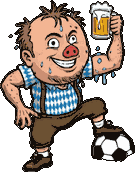
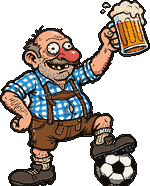
Round AK: Marcinelle art style locked in (ArtStyle.csv, refs), menu hero redrawn by PixelLab comic-first
Claude-Session: https://claude.ai/code/session_01G7FXyMq5aoL5Yeo9GA2AtK

diff --git a/sturmball_workbench.html b/sturmball_workbench.html
@@ -413,9 +413,12 @@ const S = {
 "MainMenu.csv":{key:null, what:"WHAT THE TITLE SCREEN LOOKS LIKE (round AI): the wallpaper, the title, and pictures standing on it (the hero).",
   cols:{"Part":["background","title","picture"],"Image":"text","Text":"text","X":"number","Y":"number","Width":"number","Height":"number","Frames":"number","FPS":"number","Notes":"long"},
   help:"<b>background</b>: the wallpaper (the first row wins). <b>title</b>: the big word - Text, and Height is the font size. <b>picture</b>: anything standing on the screen, as many rows as you like. X and Y are the CENTRE on a 1920 x 1080 screen. A picture can be a STRIP of <b>Frames</b> pictures side by side, played at <b>FPS</b> - the hero is 8 frames. Keep Width/Height a whole multiple of the picture's pixels (x2, x3) so the pixel art stays sharp.<br>The two PixelLab wallpapers: <code>menu_chaos_a.png</code> (the riot) and <code>menu_chaos_b.png</code> (the beer tents at sunset); the beer hall is <code>background.png</code>."},
+"ArtStyle.csv":{key:"Key", what:"THE ART STYLE (round AK): the words every art prompt starts with, so every picture comes out Marcinelle school. Read with guides/ART_STYLE.md; your references are in art_source/style_refs/.",
+  cols:{"Key":["style","ugliness","line","colour","avoid","pipeline","style_sheet"],"Text":"long","Notes":"long"},
+  help:"<b>style</b> - which comics. <b>ugliness</b> - ugly by EXAGGERATION (noses, eyes, teeth, gangly or pot-bellied), never by animal parts. <b>line</b> - wobbly black brush ink. <b>colour</b> - flat, 2-3 tones. <b>avoid</b> - what went wrong before. <b>pipeline</b> - comic master in PixelLab first, then tools/pixelate.py. <b>style_sheet</b> - the small sheet of your references sent to PixelLab as the style image.<br>Change a row and every picture made from then on follows it."},
 "Pixelate.csv":{key:"ID", what:"COMIC FIRST, PIXELS SECOND (round AJ): turns a Marcinelle-school comic master into the pixel art the game uses. Run python3 tools/pixelate.py.",
-  cols:{"ID":"text","Source":"text","Output":"text","Height":"number","Colours":"number","Outline":["yes","no"],"Ink":"number","Crop":["yes","no"],"Notes":"long"},
-  help:"<b>Source</b>: the comic drawing (from Ludo.ai, or your own) in art_source/. <b>Output</b>: where the pixel art goes. <b>Height</b>: pixels tall (the width follows) - the screen draws it 2x, 3x... so keep the size you show it at a whole multiple. <b>Colours</b>: fewer = more pixel-art. <b>Outline</b>: a 1-pixel black ink line round the outside. <b>Ink</b>: colours darker than this become pure black ink (0 = off). <b>Crop</b>: trim the empty space first.<br>Change a number, run <code>python3 tools/pixelate.py</code> (or <code>python3 tools/pixelate.py menu_hero</code> for one row), look in Godot."},
+  cols:{"ID":"text","Source":"text","Output":"text","Height":"number","Colours":"number","Outline":["yes","no"],"Ink":"number","Crop":["yes","no"],"Fill Holes":"text","Notes":"long"},
+  help:"<b>Source</b>: the comic drawing (from Ludo.ai, or your own) in art_source/. <b>Output</b>: where the pixel art goes. <b>Height</b>: pixels tall (the width follows) - the screen draws it 2x, 3x... so keep the size you show it at a whole multiple. <b>Colours</b>: fewer = more pixel-art. <b>Outline</b>: a 1-pixel black ink line round the outside. <b>Ink</b>: colours darker than this become pure black ink (0 = off). <b>Crop</b>: trim the empty space first. <b>Fill Holes</b> (round AK): a colour like <code>#f4f1ea</code> for see-through holes INSIDE the figure - PixelLab sometimes makes enclosed white see-through (a football's panels). About HALF the master's height keeps the ink lines.<br>Change a number, run <code>python3 tools/pixelate.py</code> (or <code>python3 tools/pixelate.py menu_hero</code> for one row), look in Godot."},
 "SoundRecipes.csv":{key:"Name", what:"SOUND EFFECTS FROM A SPREADSHEET (round AI, pyfxr). Each row becomes assets/audio/<Name>.wav when you run python3 tools/make_sfx.py.",
   cols:{"Name":"text","Wave":["square","saw","sine","noise"],"Base Freq":"number","Freq Ramp":"number","Duty":"number","Attack":"number","Sustain":"number","Punch":"number","Decay":"number","Arp Mod":"number","Arp Speed":"number","LPF Freq":"number","LPF Ramp":"number","HPF Freq":"number","Phaser Offset":"number","Phaser Ramp":"number","Repeat Speed":"number","Notes":"long"},
   help:"The classic <b>sfxr</b> dials, 0 to 1 (ramps -1 to 1). <b>Wave</b>: square for blips, noise for explosions and hits. <b>Base Freq</b>: how high (0.05 deep, 0.8 shrill). <b>Freq Ramp</b>: slide down (-) or up (+). <b>Sustain / Punch / Decay</b>: how long it stays loud, the kick at the start, the fade - lengths come out SQUARED, so 0.3 is about 0.1 s. <b>Arp Mod / Arp Speed</b>: the jump to a second note (the coin). <b>LPF Freq</b>: lower = muffled, bassy. <b>HPF Freq</b>: higher = thin, clicky.<br>Change a number, run <code>python3 tools/make_sfx.py</code> (it needs <code>pip install pyfxr</code> once), listen in Godot. Name the sound in Audio.csv's Sound column, or in MenuConfig.csv."},
@@ -2206,6 +2209,15 @@ function paintBook(){
       ["Stars first","the Stars open the set cards a team is made of (<code>class_tree_gates_units</code> is on), so a new game lands on the Star Hall"],
       ["free Stars","the first three cost nothing - <code>team_build_free_stars</code>. Talent points come from matches, and matches now need Stars"],
       ["switch","<code>team_build_gate</code> in Tuning.csv. Adventure is not gated"],
+    ])}`);
+
+  card("The art style, nailed down (round AK)", `
+    <p style="margin:0 0 10px"><b>PixelLab for art, Ludo for music. Marcinelle-school comic first, pixels second.</b></p>
+    ${rows([
+      ["the style","<b>ArtStyle.csv</b> + guides/ART_STYLE.md: ugly by exaggeration - potato noses, bulging eyes, buck teeth, gangly or pot-bellied; wobbly brush ink; flat colour"],
+      ["references","art_source/style_refs/ - Motomania, Clever &amp; Smart, the comic kicker; <code>style_sheet.png</code> is sent to PixelLab as the style image"],
+      ["menu hero","A (stocky drinker) on the title screen, B (lanky) ready - both from your sketch; comic masters in art_source/pixellab/menu_hero_comic/"],
+      ["pixelate","<b>Pixelate.csv</b> new column Fill Holes - PixelLab can make a football's white panels see-through"],
     ])}`);
 
   card("The menu hero, comic first (round AJ)", `

diff --git a/tools/workbench_src/part3_schema.js b/tools/workbench_src/part3_schema.js
@@ -204,9 +204,12 @@ const S = {
 "MainMenu.csv":{key:null, what:"WHAT THE TITLE SCREEN LOOKS LIKE (round AI): the wallpaper, the title, and pictures standing on it (the hero).",
   cols:{"Part":["background","title","picture"],"Image":"text","Text":"text","X":"number","Y":"number","Width":"number","Height":"number","Frames":"number","FPS":"number","Notes":"long"},
   help:"<b>background</b>: the wallpaper (the first row wins). <b>title</b>: the big word - Text, and Height is the font size. <b>picture</b>: anything standing on the screen, as many rows as you like. X and Y are the CENTRE on a 1920 x 1080 screen. A picture can be a STRIP of <b>Frames</b> pictures side by side, played at <b>FPS</b> - the hero is 8 frames. Keep Width/Height a whole multiple of the picture's pixels (x2, x3) so the pixel art stays sharp.<br>The two PixelLab wallpapers: <code>menu_chaos_a.png</code> (the riot) and <code>menu_chaos_b.png</code> (the beer tents at sunset); the beer hall is <code>background.png</code>."},
+"ArtStyle.csv":{key:"Key", what:"THE ART STYLE (round AK): the words every art prompt starts with, so every picture comes out Marcinelle school. Read with guides/ART_STYLE.md; your references are in art_source/style_refs/.",
+  cols:{"Key":["style","ugliness","line","colour","avoid","pipeline","style_sheet"],"Text":"long","Notes":"long"},
+  help:"<b>style</b> - which comics. <b>ugliness</b> - ugly by EXAGGERATION (noses, eyes, teeth, gangly or pot-bellied), never by animal parts. <b>line</b> - wobbly black brush ink. <b>colour</b> - flat, 2-3 tones. <b>avoid</b> - what went wrong before. <b>pipeline</b> - comic master in PixelLab first, then tools/pixelate.py. <b>style_sheet</b> - the small sheet of your references sent to PixelLab as the style image.<br>Change a row and every picture made from then on follows it."},
 "Pixelate.csv":{key:"ID", what:"COMIC FIRST, PIXELS SECOND (round AJ): turns a Marcinelle-school comic master into the pixel art the game uses. Run python3 tools/pixelate.py.",
-  cols:{"ID":"text","Source":"text","Output":"text","Height":"number","Colours":"number","Outline":["yes","no"],"Ink":"number","Crop":["yes","no"],"Notes":"long"},
-  help:"<b>Source</b>: the comic drawing (from Ludo.ai, or your own) in art_source/. <b>Output</b>: where the pixel art goes. <b>Height</b>: pixels tall (the width follows) - the screen draws it 2x, 3x... so keep the size you show it at a whole multiple. <b>Colours</b>: fewer = more pixel-art. <b>Outline</b>: a 1-pixel black ink line round the outside. <b>Ink</b>: colours darker than this become pure black ink (0 = off). <b>Crop</b>: trim the empty space first.<br>Change a number, run <code>python3 tools/pixelate.py</code> (or <code>python3 tools/pixelate.py menu_hero</code> for one row), look in Godot."},
+  cols:{"ID":"text","Source":"text","Output":"text","Height":"number","Colours":"number","Outline":["yes","no"],"Ink":"number","Crop":["yes","no"],"Fill Holes":"text","Notes":"long"},
+  help:"<b>Source</b>: the comic drawing (from Ludo.ai, or your own) in art_source/. <b>Output</b>: where the pixel art goes. <b>Height</b>: pixels tall (the width follows) - the screen draws it 2x, 3x... so keep the size you show it at a whole multiple. <b>Colours</b>: fewer = more pixel-art. <b>Outline</b>: a 1-pixel black ink line round the outside. <b>Ink</b>: colours darker than this become pure black ink (0 = off). <b>Crop</b>: trim the empty space first. <b>Fill Holes</b> (round AK): a colour like <code>#f4f1ea</code> for see-through holes INSIDE the figure - PixelLab sometimes makes enclosed white see-through (a football's panels). About HALF the master's height keeps the ink lines.<br>Change a number, run <code>python3 tools/pixelate.py</code> (or <code>python3 tools/pixelate.py menu_hero</code> for one row), look in Godot."},
 "SoundRecipes.csv":{key:"Name", what:"SOUND EFFECTS FROM A SPREADSHEET (round AI, pyfxr). Each row becomes assets/audio/<Name>.wav when you run python3 tools/make_sfx.py.",
   cols:{"Name":"text","Wave":["square","saw","sine","noise"],"Base Freq":"number","Freq Ramp":"number","Duty":"number","Attack":"number","Sustain":"number","Punch":"number","Decay":"number","Arp Mod":"number","Arp Speed":"number","LPF Freq":"number","LPF Ramp":"number","HPF Freq":"number","Phaser Offset":"number","Phaser Ramp":"number","Repeat Speed":"number","Notes":"long"},
   help:"The classic <b>sfxr</b> dials, 0 to 1 (ramps -1 to 1). <b>Wave</b>: square for blips, noise for explosions and hits. <b>Base Freq</b>: how high (0.05 deep, 0.8 shrill). <b>Freq Ramp</b>: slide down (-) or up (+). <b>Sustain / Punch / Decay</b>: how long it stays loud, the kick at the start, the fade - lengths come out SQUARED, so 0.3 is about 0.1 s. <b>Arp Mod / Arp Speed</b>: the jump to a second note (the coin). <b>LPF Freq</b>: lower = muffled, bassy. <b>HPF Freq</b>: higher = thin, clicky.<br>Change a number, run <code>python3 tools/make_sfx.py</code> (it needs <code>pip install pyfxr</code> once), listen in Godot. Name the sound in Audio.csv's Sound column, or in MenuConfig.csv."},

diff --git a/tools/workbench_src/part6_guide.js b/tools/workbench_src/part6_guide.js
@@ -500,6 +500,15 @@ function paintBook(){
       ["switch","<code>team_build_gate</code> in Tuning.csv. Adventure is not gated"],
     ])}`);
 
+  card("The art style, nailed down (round AK)", `
+    <p style="margin:0 0 10px"><b>PixelLab for art, Ludo for music. Marcinelle-school comic first, pixels second.</b></p>
+    ${rows([
+      ["the style","<b>ArtStyle.csv</b> + guides/ART_STYLE.md: ugly by exaggeration - potato noses, bulging eyes, buck teeth, gangly or pot-bellied; wobbly brush ink; flat colour"],
+      ["references","art_source/style_refs/ - Motomania, Clever &amp; Smart, the comic kicker; <code>style_sheet.png</code> is sent to PixelLab as the style image"],
+      ["menu hero","A (stocky drinker) on the title screen, B (lanky) ready - both from your sketch; comic masters in art_source/pixellab/menu_hero_comic/"],
+      ["pixelate","<b>Pixelate.csv</b> new column Fill Holes - PixelLab can make a football's white panels see-through"],
+    ])}`);
+
   card("The menu hero, comic first (round AJ)", `
     <p style="margin:0 0 10px"><b>Your rule: draw it as a Marcinelle-school comic, THEN pixelate it.</b></p>
     ${rows([

diff --git a/tools/pixelate.py b/tools/pixelate.py
@@ -21,6 +21,9 @@
 #    Ink        how dark a colour must be to become pure black ink (0-255;
 #               0 = off). Keeps the comic's black lines crisp.
 #    Crop       yes = cut away the empty space round the figure first
+#    Fill Holes a colour (#f4f1ea) for see-through holes INSIDE the figure.
+#               PixelLab's background removal sometimes eats white areas
+#               that are enclosed - the white panels of a football. Blank = off.
 #    Notes      anything
 #
 #  Change a number, run it again, look in Godot.
@@ -37,8 +40,31 @@ SHEET = os.path.join(HERE, "data", "Pixelate.csv")
 INK = (20, 14, 10)
 
 
-def pixelate(src, height, colours, outline, ink, crop):
+def fill_holes(im, colour):
+    """Transparent pixels that cannot reach the edge of the picture are holes:
+    paint them `colour`, fully opaque."""
+    w, h = im.size
+    px = im.load()
+    outside = set()
+    stack = [(x, y) for x in range(w) for y in (0, h - 1)] + [(x, y) for y in range(h) for x in (0, w - 1)]
+    while stack:
+        x, y = stack.pop()
+        if (x, y) in outside or not (0 <= x < w and 0 <= y < h) or px[x, y][3] > 0:
+            continue
+        outside.add((x, y))
+        stack += [(x + 1, y), (x - 1, y), (x, y + 1), (x, y - 1)]
+    rgb = tuple(int(colour.lstrip("#")[i:i + 2], 16) for i in (0, 2, 4))
+    for y in range(h):
+        for x in range(w):
+            if px[x, y][3] == 0 and (x, y) not in outside:
+                px[x, y] = rgb + (255,)
+    return im
+
+
+def pixelate(src, height, colours, outline, ink, crop, holes=""):
     im = Image.open(src).convert("RGBA")
+    if holes:
+        im = fill_holes(im, holes)
     if crop and im.getbbox():
         im = im.crop(im.getbbox())
     width = max(1, round(im.width * height / im.height))
@@ -88,7 +114,8 @@ def main():
                 continue
             out = pixelate(src, int(float(row.get("Height") or 160)), int(float(row.get("Colours") or 32)),
                            (row.get("Outline") or "yes").strip().lower() == "yes",
-                           int(float(row.get("Ink") or 60)), (row.get("Crop") or "yes").strip().lower() == "yes")
+                           int(float(row.get("Ink") or 60)), (row.get("Crop") or "yes").strip().lower() == "yes",
+                           (row.get("Fill Holes") or "").strip())
             os.makedirs(os.path.dirname(dst), exist_ok=True)
             out.save(dst)
             print("  %s: %s -> %s (%dx%d, %s colours)" % (rid, row["Source"], row["Output"], out.width, out.height, row.get("Colours")))

diff --git a/guides/DESIGNER_MANUAL.md b/guides/DESIGNER_MANUAL.md
@@ -5248,7 +5248,8 @@ helper adds a node for you, say so in a comment above it, in capitals.
 | change what a free kick is worth, by distance | `data/FreeKicks.csv` (round AG) |
 | change who is on the recruitment board, and what they cost | `data/RecruitBoard.csv` (round AH) |
 | change the title screen's wallpaper, title or hero | `data/MainMenu.csv` (round AI) |
-| turn a comic drawing into pixel art | `data/Pixelate.csv`, then `python3 tools/pixelate.py` (round AJ) |
+| turn a comic drawing into pixel art | `data/Pixelate.csv`, then `python3 tools/pixelate.py` |
+| change the art style every picture is drawn in | `data/ArtStyle.csv` and `guides/ART_STYLE.md` (your references: `art_source/style_refs/`) |
 | change a menu button's sound | `Hover Sound` / `Press Sound` in `data/MenuConfig.csv` |
 | make or change a sound effect | `data/SoundRecipes.csv`, then `python3 tools/make_sfx.py` |
 | change the menu tune | the top of `tools/make_music.py`, then run it |
@@ -5401,36 +5402,53 @@ As shipped:
 - **The wallpaper:** the Oktoberfest riot (`assets/menu/menu_chaos_a.png`).
   The other one, `menu_chaos_b.png`, has the beer-tent stands at sunset; the
   beer hall from round AH is `background.png`.
-- **The hero (round AJ):** your sketch, an ugly, sweaty Bavarian kicker with
-  his foot on the ball (`hero_comic.png`). The round AI backpacker
+- **The hero (round AK):** your sketch as a Marcinelle-school comic, foot
+  on the ball, stein up (`hero_comic.png`; version B is `hero_comic_b.png`). The round AI backpacker
   (`hero_cheer.png`, 8 frames) is still there.
 - **The title:** **STURMBALL** in gold.
 
-### Comic first, pixels second — `data/Pixelate.csv` (round AJ)
+### Comic first, pixels second — the art style (rounds AJ–AK)
 
 **Your rule:** every picture is drawn as a **Marcinelle-school comic
-first**, and is pixelated afterwards. The steps:
+first**, and is pixelated afterwards. **PixelLab makes the art; Ludo makes
+the music.**
 
-1. **Draw the comic.** Ludo.ai draws the master from a prompt, or from your
-   own sketch with `editImage`. You can also draw it yourself. It goes in
-   `art_source/ludo/<thing>/`.
-2. **Pixelate it.** `python3 tools/pixelate.py` turns every row of
-   `data/Pixelate.csv` into the pixel art the game uses.
+**The style is written down in two places:**
+
+- **`guides/ART_STYLE.md`:** what makes it Marcinelle (ugly by
+  exaggeration: noses, eyes, teeth, gangly or pot-bellied) and what does not
+  (pig noses, ball heads, glossy shading).
+- **`data/ArtStyle.csv`:** the words every art prompt starts with (`style`,
+  `ugliness`, `line`, `colour`, `avoid`) and the recipe (`pipeline`).
+  **Change a row there and every future picture changes with it.**
+
+Your references are in `art_source/style_refs/`. A small sheet of them,
+`style_sheet.png`, is sent to PixelLab as the style image.
+
+**How a picture is made:**
+
+1. **The comic master.** PixelLab `create_image_pro`, 384 px, with the style
+   sheet. Your sketch, if there is one, sets the pose. It goes in
+   `art_source/pixellab/<thing>/`.
+2. **The pixel art.** A row of **`data/Pixelate.csv`**, then
+   `python3 tools/pixelate.py`.
 
 | column | |
 |---|---|
 | `Source` | the comic master |
 | `Output` | where the pixel art goes |
-| `Height` | how many pixels tall it becomes (the width follows). The screen then draws it 2×, 3× … |
-| `Colours` | how many colours it may use. Fewer = more "pixel" |
+| `Height` | pixels tall (the width follows). **About half the master** keeps the ink lines; the screen draws it 2×, 3× … |
+| `Colours` | how many colours (about 48) |
 | `Outline` | `yes` = a 1-pixel black ink line all round |
-| `Ink` | how dark a colour must be to turn into pure black ink (0 = off), so the comic's lines stay crisp |
-| `Crop` | `yes` = cut away the empty space round the figure first |
+| `Ink` | colours darker than this become pure black ink (0 = off; about 30) |
+| `Crop` | `yes` = cut away the empty space first |
+| `Fill Holes` | a colour for see-through holes inside the figure. PixelLab's background removal sometimes eats enclosed white, such as a football's white panels |
 
-**The menu hero** is the first picture made this way. Ludo drew him from
-your sketch in three rounds, each uglier than the last. He is 135 × 172
-pixels, drawn 3× on the title screen. The other comic versions are in
-`art_source/ludo/menu_hero/`.
+**The menu hero (round AK)** comes in two versions, both from your sketch:
+
+- **A, the stocky drinker,** is on the title screen now
+  (`hero_comic.png`, 150 × 186, drawn 3×).
+- **B, the lanky one,** is `hero_comic_b.png`. He faces left.
 
 ### The buttons' sounds — two columns of `data/MenuConfig.csv`
 

diff --git a/guides/ART_STYLE.md b/guides/ART_STYLE.md
@@ -1,0 +1,35 @@
+# The art style: Marcinelle school, then pixels
+
+**Your references are in `art_source/style_refs/`. Keep them; they are the
+style.** They are:
+
+- Holger Aue's *Motomania* (covers and a strip);
+- Ibáñez's *Clever & Smart* (covers);
+- a Ralf König / Walter Moers-style black-and-white page;
+- the comic soccer kicker.
+
+## What makes it Marcinelle (and what doesn't)
+
+| yes | no |
+|---|---|
+| ugly by **exaggeration**: a huge droopy or bulbous potato nose, bulging eyes with tiny pupils, buck or crooked teeth, a weak stubbly chin, big ears | ugly by **animal parts**: pig noses, a perfectly round ball head (round AJ) |
+| gangly limbs and knobbly knees, **or** a pot belly on thin legs; enormous hands and feet | realistic proportions |
+| bold, wobbly black **brush ink**, thick and thin strokes, sweat drops, motion lines | clean vector lines, glossy 3D or airbrush shading, anime |
+| flat bright colours, 2–3 tones a shape | gradients |
+
+## How a picture is made: always these two steps
+
+1. **The comic master.** PixelLab `create_image_pro`, 384 px:
+   - **The prompt** is the rows of `data/ArtStyle.csv` (style, ugliness,
+     line, colour), then what the picture is.
+   - **The style image** is `art_source/style_refs/style_sheet.png`, with
+     outline, detail and shading copied from it.
+   - **A pose reference:** if you drew a sketch, it goes in as the pose.
+   - **Where it goes:** `art_source/pixellab/<thing>/`.
+2. **The pixel art.** A row in `data/Pixelate.csv`, then
+   `python3 tools/pixelate.py`.
+   - **Size:** half the master's size keeps the ink lines.
+   - **Colours:** about 48.
+   - **Fill Holes:** for white areas PixelLab made see-through.
+
+**PixelLab is for art; Ludo is for music** (your round AK rule).

diff --git a/guides/HANDOVER.md b/guides/HANDOVER.md
@@ -678,6 +678,20 @@ size up to 512x512 px total) and downloading from api.pixellab.ai/mcp/images/
 <job>/download. Hero = 3 rounds of ludo editImage from his sketch
 (art_source/ludo/menu_hero/), pixelated by tools/pixelate.py + data/Pixelate.csv.
 
+## 12n. Round AK — the art style nailed down
+
+HIS RULE NOW: PixelLab ONLY for art (Ludo = music). Marcinelle ugliness =
+exaggeration (Motomania / Clever & Smart / Franquin), NOT pig noses or ball
+heads. Refs in art_source/style_refs/ (keep!). data/ArtStyle.csv = prompt
+recipe; guides/ART_STYLE.md. To give PixelLab a local image as style/reference
+without huge base64 every call: upload it ONCE through reduce_colors
+(images_base64) and reuse https://api.pixellab.ai/mcp/images/<job>/download
+as style_image_url / reference url. Style sheet job 14f75ed2-...; sketch job
+e92d8fd3-... (those URLs may expire - re-upload if so). create_image_pro
+384x384 no_background, style_copy outline/detail/shading = good masters
+(40 gens each). PixelLab bg removal can eat enclosed white -> Pixelate.csv
+Fill Holes.
+
 ## 13. Ideas worth offering him
 
 - An `Ultimate In Short` column so the emblem bar and hover can show one line

diff --git a/guides/PHASES.md b/guides/PHASES.md
@@ -349,7 +349,7 @@ what is missing, and the next order.
 | **A4** | the units: four classes' sets, the Basic Team (and so the recruits), the twelve Stars | 15–20 | 30 of the 31 Artwork files the cards name are missing — every class unit is a stand-in. Needs a step that assembles PixelLab's frames into the game's 12×39 sheet (`data/Animations.csv`) |
 | **A5** | the icons in `data/ICONS_WANTED.csv` | 21 | one at a time; a missing icon is a plaque with its name |
 
-**Round AJ, your rule: comic first, pixels second.** Every picture is drawn as a Marcinelle-school comic (Ludo.ai, or your sketch) and then pixelated with `tools/pixelate.py` (`data/Pixelate.csv`).
+**Your rule (rounds AJ–AK): comic first, pixels second, PixelLab for art.** Every picture is drawn by PixelLab as a Marcinelle-school comic master from `data/ArtStyle.csv` and your references (`art_source/style_refs/`), then pixelated with `tools/pixelate.py` (`data/Pixelate.csv`). See `guides/ART_STYLE.md`.
 
 **PixelLab runs through your computer** (the desktop app). This cloud session
 can only use it while the chat is linked to that computer.
